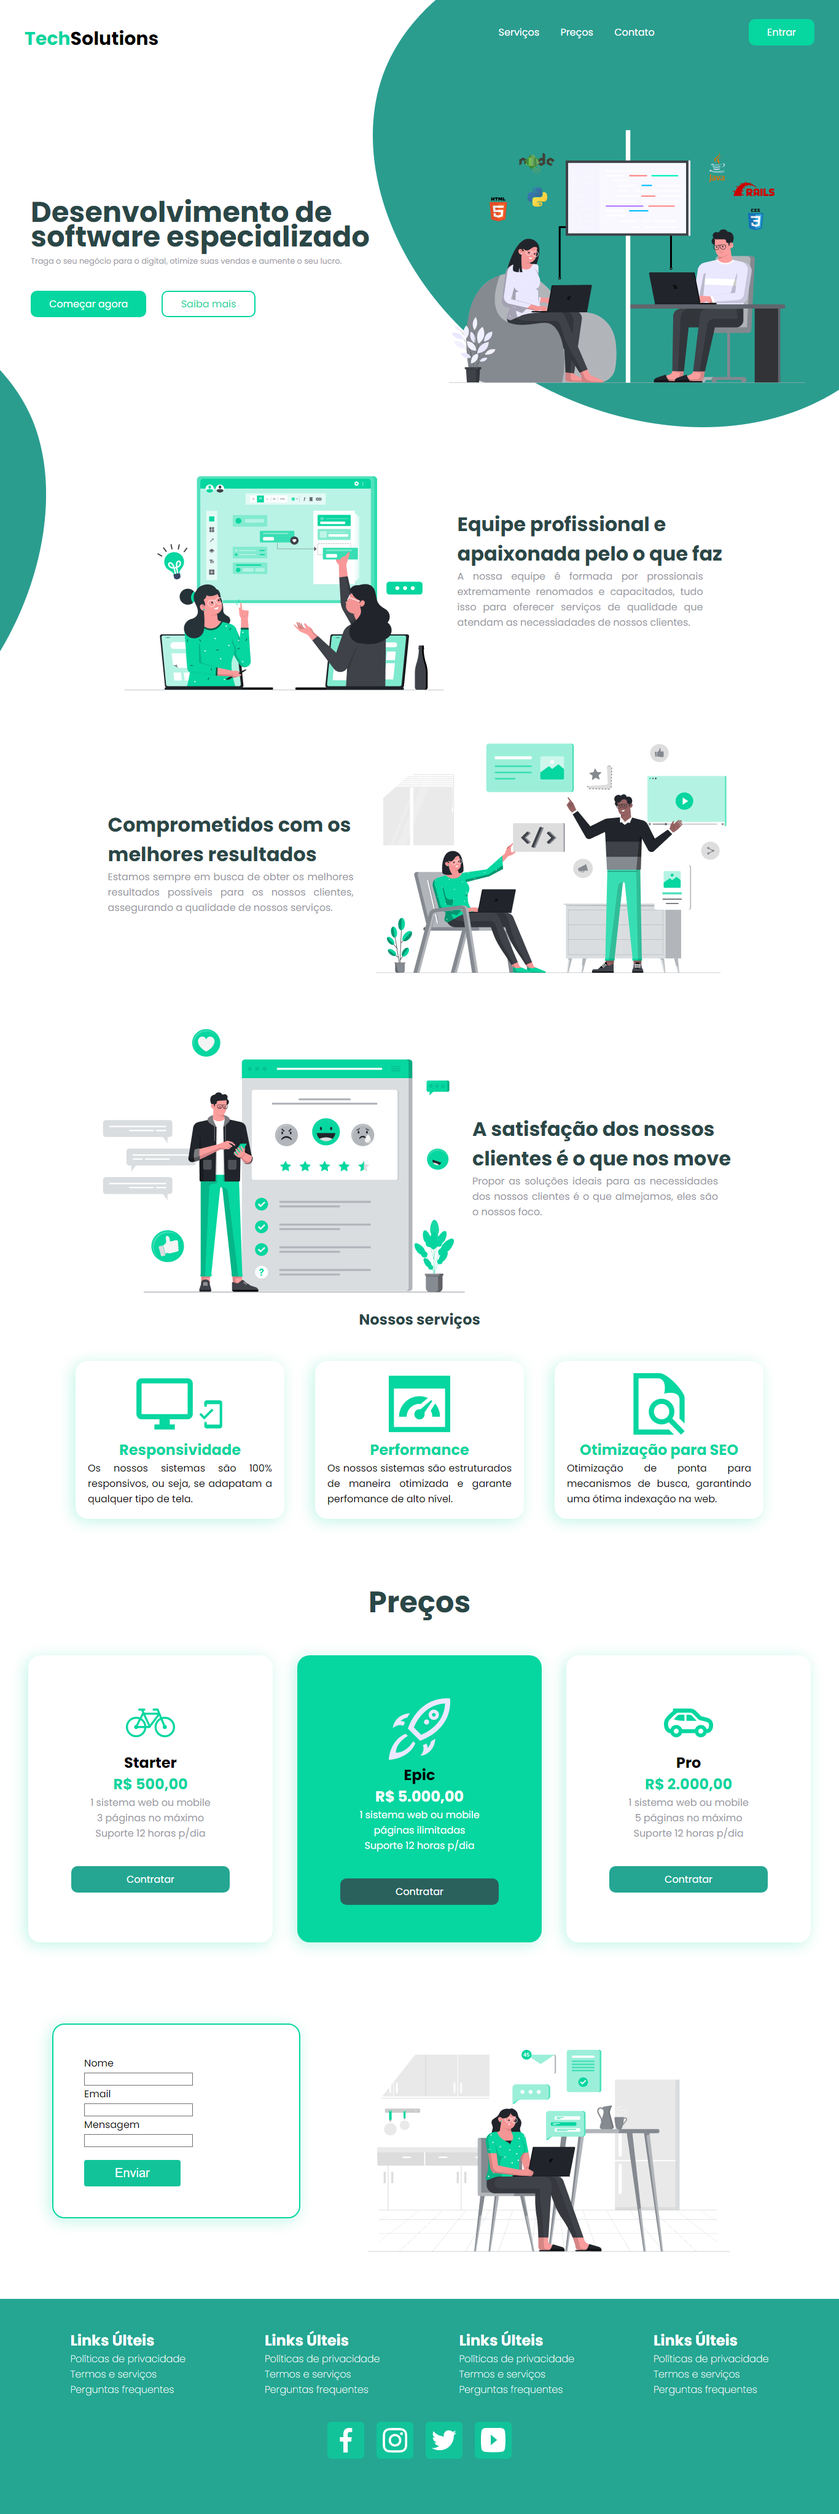
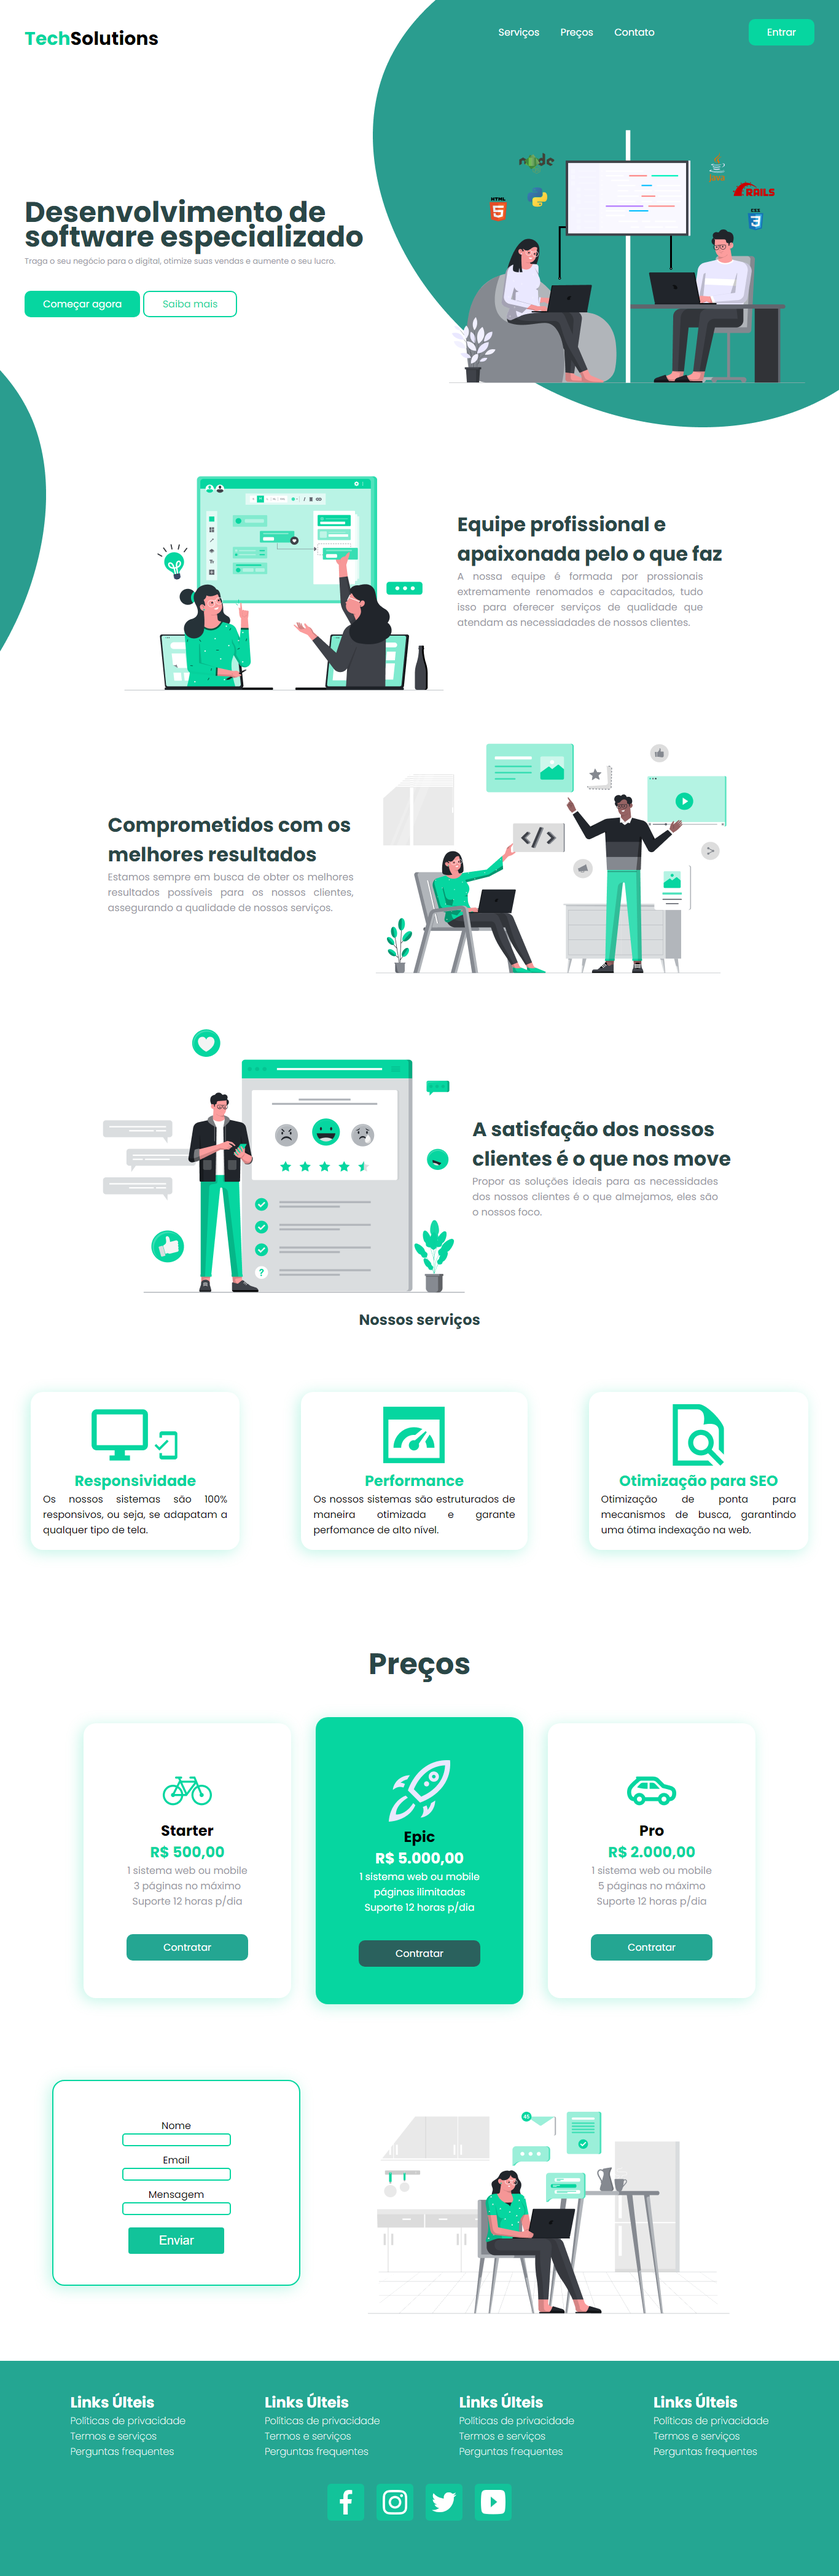
fix responsiveness

diff --git a/css/style.css b/css/style.css
@@ -77,7 +77,7 @@ header .button a{
 }
 
 .banner .text{
-    margin-left: 50px;
+  
     line-height: 40px;
 }
 
@@ -105,7 +105,7 @@ header .button a{
     border-radius: 10px;
     text-decoration: none;
     color: #06D6A0;
-    margin-left: 20px;
+   
 }
 
 .banner .text p{
@@ -218,7 +218,6 @@ header .button a{
 
 .cards p{
     text-align: justify;
-    max-width: 300px;
 }
 
 
@@ -234,12 +233,13 @@ header .button a{
     display: flex;
     justify-content: center;
     margin-top: 50px;
+    align-items: center;
 }
 
 .prices a{
     text-decoration: none;
     background-color: #24A692;
-    padding: 10px 90px;
+    padding: 10px 60px;
     border-radius: 10px;
     color: #FFF;
     margin-bottom: -200px;
@@ -271,7 +271,7 @@ header .button a{
 
 .prices .price2 a{
     background-color: #2A615D;
-    padding: 10px 90px;
+    padding: 10px 60px;
 }
 
 .prices .price2 h1{
@@ -367,3 +367,5 @@ footer{
     margin: 40px 10px;
     padding: 10px;
 }
+
+/* ----------------------------------- */

diff --git a/css/mediaqueries.css b/css/mediaqueries.css
@@ -1,4 +1,4 @@
-@media (max-width: 800px){
+@media (max-width: 900px){
     
     .circle{
         display: none;
@@ -37,7 +37,23 @@
     .hero1, .hero2, .hero3{
         display: flex;
         flex-direction: column-reverse;
+        padding: 20px;
     }
+
+    
+    .hero1 h1{
+        font-size: 1em;
+    }
+
+    .hero2 h1{
+        font-size: 1em;
+    }
+
+    .hero3 h1{
+        font-size: 1em;
+    }
+    
+
     .hero-image{
         width: 15em;
     }
@@ -94,5 +110,27 @@
     .socialmedias img{
         width: 20px;
         height: 20px;
+    }
+    .banner .text h1{
+        font-size: 2em;
+        text-align: center;
+    }
+    .banner .text p{
+        text-align: center;
+    }
+    .buttons{
+        display: flex;
+        flex-direction: column;
+        align-items: center;
+        margin-left: -50;
+    }
+    .banner .text #botao1{
+        margin-bottom: 10px;
+    }
+}
+
+@media (min-width: 1000px){
+    .banner .text{
+        margin-left: 40px;
     }
 }
